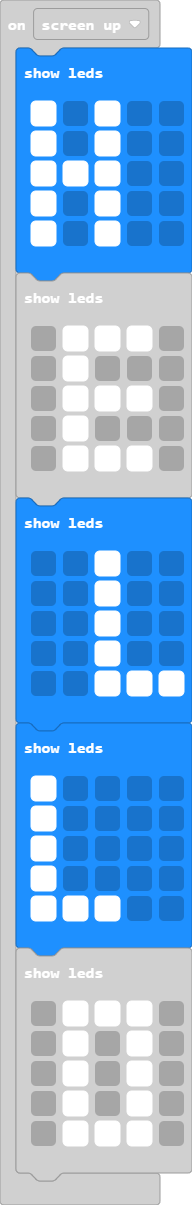
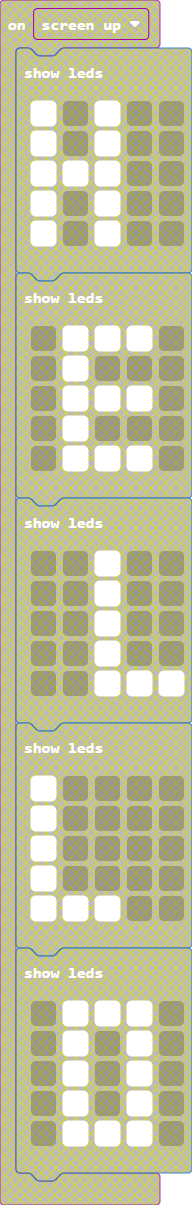
Update main.blocks, main.ts

diff --git a/main.ts b/main.ts
@@ -39,43 +39,6 @@ input.onGesture(Gesture.TiltLeft, function () {
     music.stopAllSounds()
     basic.clearScreen()
 })
-input.onGesture(Gesture.ScreenUp, function () {
-    basic.showLeds(`
-        # . # . .
-        # . # . .
-        # # # . .
-        # . # . .
-        # . # . .
-        `)
-    basic.showLeds(`
-        . # # # .
-        . # . . .
-        . # # # .
-        . # . . .
-        . # # # .
-        `)
-    basic.showLeds(`
-        . . # . .
-        . . # . .
-        . . # . .
-        . . # . .
-        . . # # #
-        `)
-    basic.showLeds(`
-        # . . . .
-        # . . . .
-        # . . . .
-        # . . . .
-        # # # . .
-        `)
-    basic.showLeds(`
-        . # # # .
-        . # . # .
-        . # . # .
-        . # . # .
-        . # # # .
-        `)
-})
 input.onButtonPressed(Button.AB, function () {
     for (let index = 0; index < 3; index++) {
         music.playTone(262, music.beat(BeatFraction.Double))
@@ -155,3 +118,38 @@ input.onLogoEvent(TouchButtonEvent.Pressed, function () {
         `)
 })
 music.playMelody("C D E F G A B C5 ", 200)
+basic.showLeds(`
+    # . # . .
+    # . # . .
+    # # # . .
+    # . # . .
+    # . # . .
+    `)
+basic.showLeds(`
+    . # # # .
+    . # . . .
+    . # # # .
+    . # . . .
+    . # # # .
+    `)
+basic.showLeds(`
+    . . # . .
+    . . # . .
+    . . # . .
+    . . # . .
+    . . # # #
+    `)
+basic.showLeds(`
+    # . . . .
+    # . . . .
+    # . . . .
+    # . . . .
+    # # # . .
+    `)
+basic.showLeds(`
+    . # # # .
+    . # . # .
+    . # . # .
+    . # . # .
+    . # # # .
+    `)
